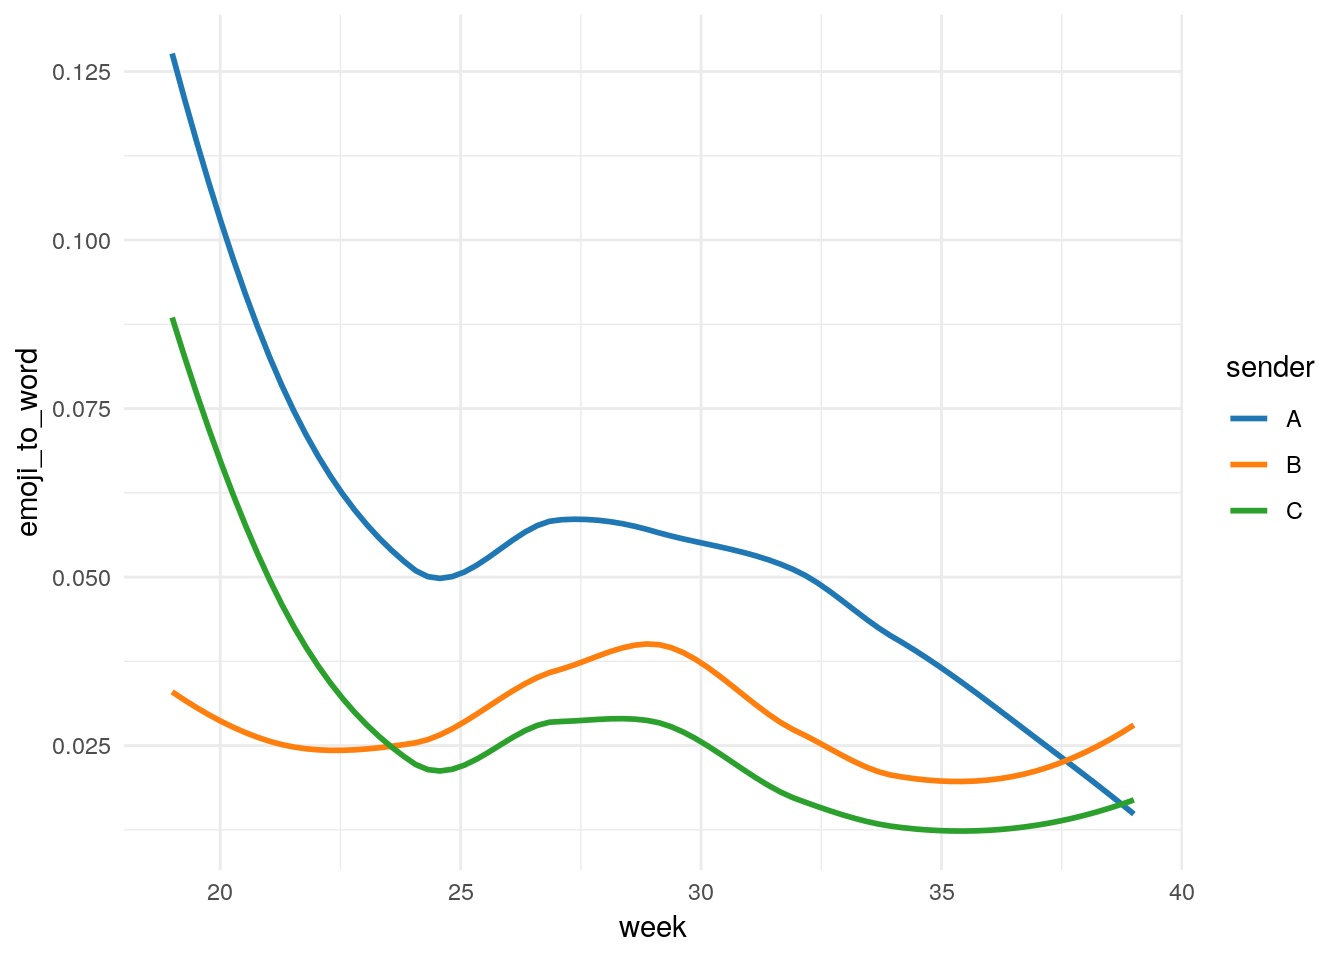
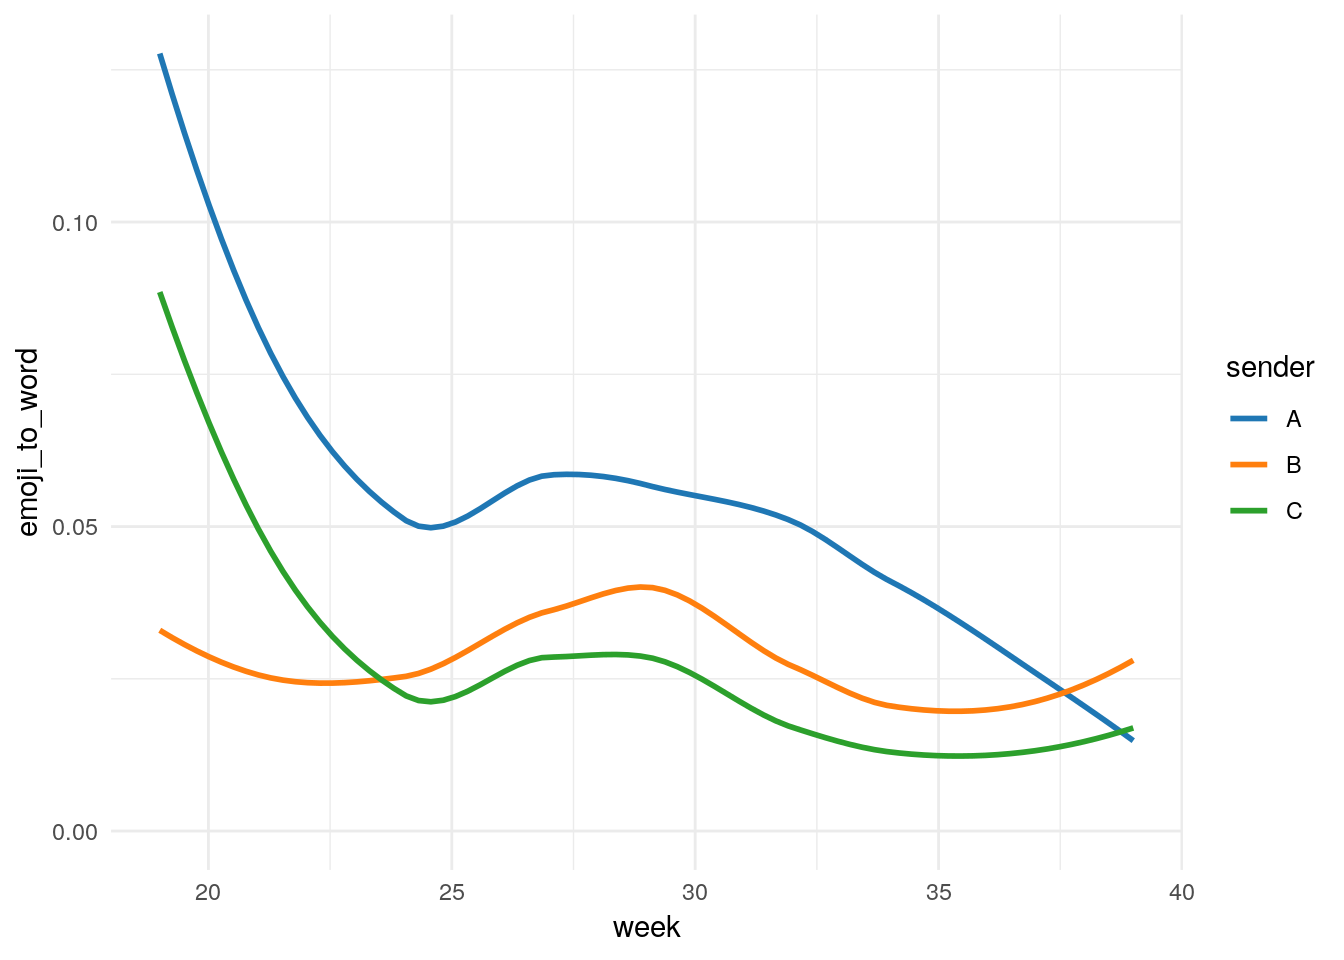
whatsapp emoji to word

diff --git a/content/analyses/2018-10-03_whatsapp_analysis.html b/content/analyses/2018-10-03_whatsapp_analysis.html
@@ -542,6 +542,7 @@ df_emoji_split %&gt;%
             word_count_sum = sum(word_count),
             emoji_to_word = emoji_count_sum/word_count_sum) %&gt;% 
   ggplot(aes(week, emoji_to_word, col = sender)) +
+  ylim(0, NA) +
   geom_smooth(se = F) +
   scale_color_tableau() +
   theme_minimal()</code></pre>

diff --git a/public/analyses/whatsapp_text_analysis/index.html b/public/analyses/whatsapp_text_analysis/index.html
@@ -876,6 +876,7 @@ df_emoji_split %&gt;%
             word_count_sum = sum(word_count),
             emoji_to_word = emoji_count_sum/word_count_sum) %&gt;% 
   ggplot(aes(week, emoji_to_word, col = sender)) +
+  ylim(0, NA) +
   geom_smooth(se = F) +
   scale_color_tableau() +
   theme_minimal()</code></pre>
